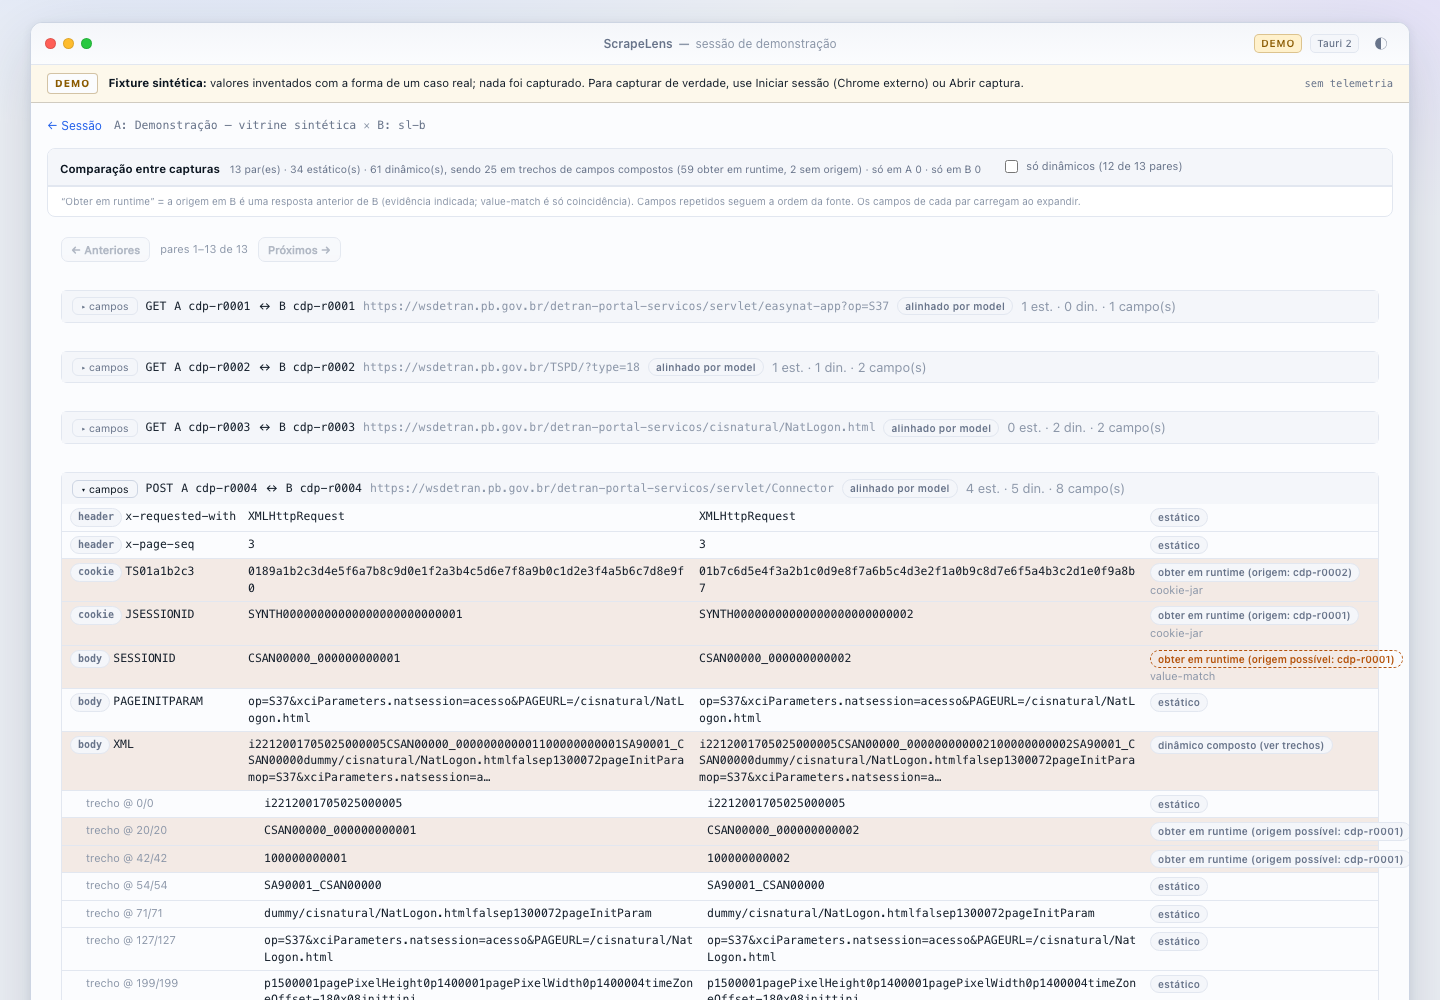
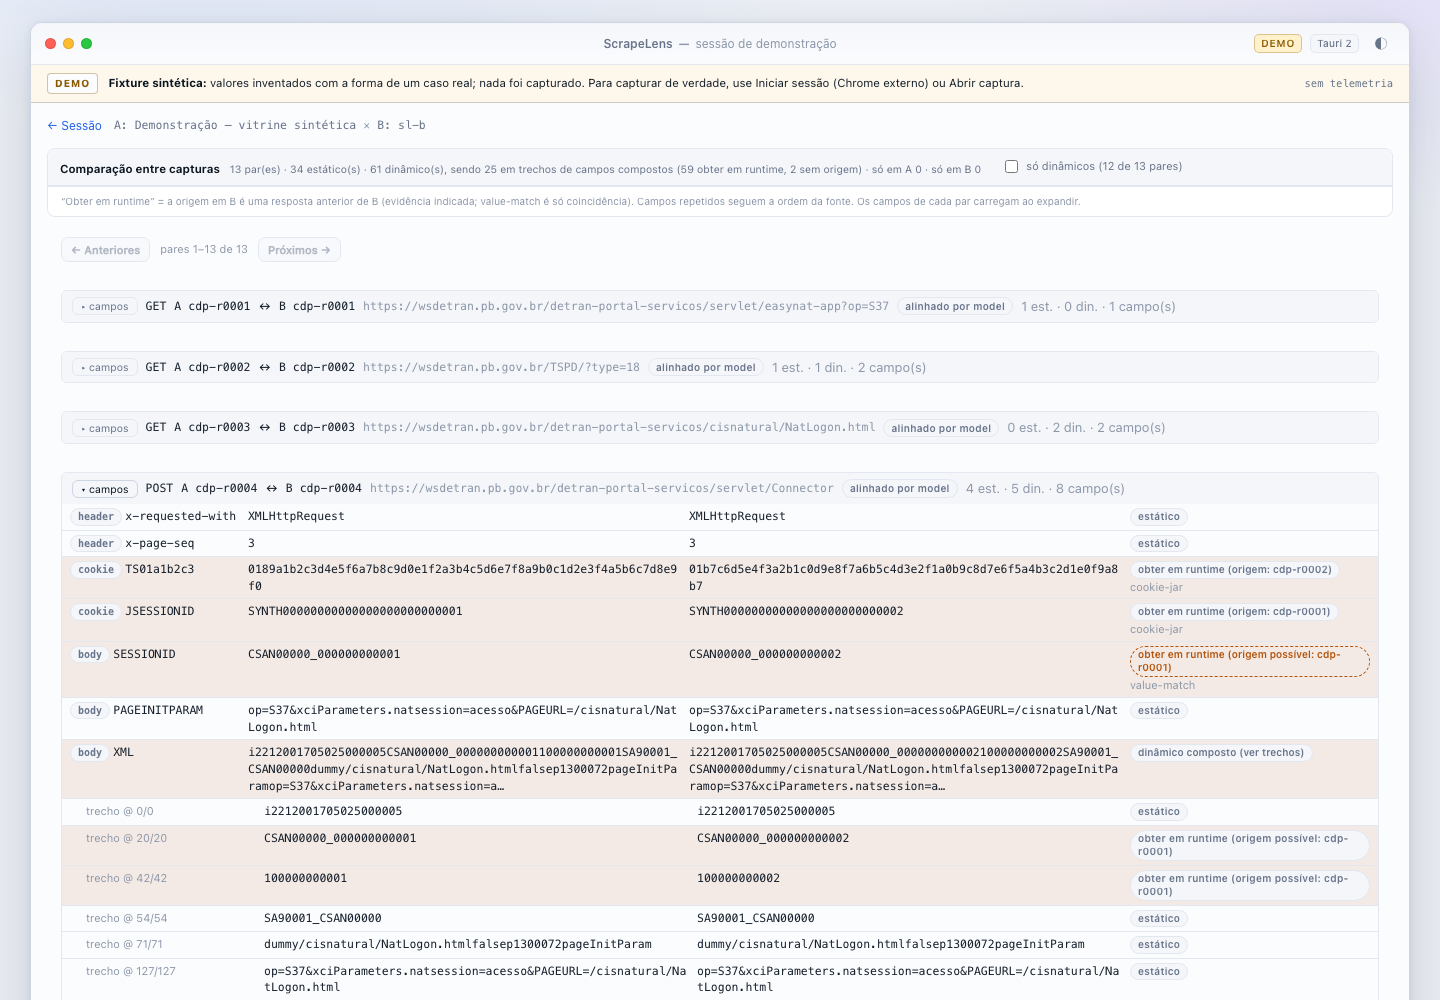
fix(app): compare chips wrap lines and add optional reordering hint

Changed region(s): [[0.0312, 0.496, 0.9688, 1.0]]

diff --git a/app/src/styles.css b/app/src/styles.css
@@ -1328,7 +1328,7 @@ kbd {
 .chain-list li { border: 1px solid var(--border); border-radius: 6px; padding: 7px 10px; margin: 6px 0; font-size: 11px; }
 .chain-list .why { color: var(--fg-muted); margin-top: 3px; overflow-wrap: anywhere; }
 .chain-protection { border-style: dashed; }
-.cmp-field { display: grid; grid-template-columns: 170px 1fr 1fr 220px; gap: 8px; padding: 4px 8px; border-bottom: 1px solid var(--border); font-size: 11px; }
+.cmp-field { display: grid; grid-template-columns: minmax(110px, 170px) minmax(0, 1fr) minmax(0, 1fr) minmax(150px, 240px); gap: 8px; padding: 4px 8px; border-bottom: 1px solid var(--border); font-size: 11px; }
 .cmp-field .mono { overflow-wrap: anywhere; }
 .cmp-dynamic { background: color-mix(in srgb, var(--warn) 10%, transparent); }
 .cmp-pair { border: 1px solid var(--border); border-radius: 6px; margin: 8px 14px; }
@@ -1336,3 +1336,7 @@ kbd {
 .cmp-pager { display: flex; gap: 10px; align-items: center; margin: 8px 14px; font-size: 11px; }
 .chip.possible { border: 1px dashed var(--warn); background: transparent; color: var(--warn); }
 .chip.strong { border: 1px solid var(--ok, #16a34a); }
+.cmp-field > div { min-width: 0; }
+.cmp-field .chip { white-space: normal; overflow-wrap: anywhere; max-width: 100%; height: auto; line-height: 1.35; display: inline-block; }
+.cmp-pair { overflow: hidden; }
+.cmp-pair > header { min-width: 0; overflow-wrap: anywhere; }

diff --git a/app/src/CaptureCompare.tsx b/app/src/CaptureCompare.tsx
@@ -24,7 +24,7 @@ function FieldRow({ field }: { field: FieldDiff }) {
         <div className="mono">{field.a ?? <span className="dim">—</span>}</div>
         <div className="mono">{field.b ?? <span className="dim">—</span>}</div>
         <div>
-          <span className={`chip ${field.originLabel?.includes("possível") ? "possible" : dynamic ? "v-partial" : "tag"}`}>{fieldClassLabel(field)}</span>
+          <span title={fieldClassLabel(field)} className={`chip ${field.originLabel?.includes("possível") ? "possible" : dynamic ? "v-partial" : "tag"}`}>{fieldClassLabel(field)}</span>
           {field.origin && (
             <div className="dim">
               {field.origin.kind}
@@ -62,6 +62,11 @@ function OnlyList({ title, items, total }: { title: string; items: RequestRef[];
         {items.map((r) => (
           <li key={r.requestId}>
             <span className="mono">{r.method}</span> <span className="mono">{r.requestId}</span> <span className="mono dim">{r.url}</span>
+            {(r.reordered || r.outOfOrder) && (
+              <span className="chip possible" title="Marca do core: requisição única reordenada entre as capturas">
+                possivelmente a mesma requisição, em outra ordem
+              </span>
+            )}
           </li>
         ))}
       </ul>

diff --git a/app/src/flow.ts b/app/src/flow.ts
@@ -95,6 +95,9 @@ export interface PrimingChain {
 }
 
 export interface RequestRef {
+  /** Marca opcional do core: requisição única reordenada (nome ainda não fixado). */
+  reordered?: boolean;
+  outOfOrder?: boolean;
   requestId: string;
   method: string;
   url: string;

diff --git a/src-tauri/EMPACOTAMENTO.md b/src-tauri/EMPACOTAMENTO.md
@@ -47,14 +47,14 @@ Ferramentas usadas: rustc 1.98.1, Node 26.8.1, macOS 26.5.2 (arm64).
 | Executável | `ScrapeLens.app/Contents/MacOS/scrapelens` |
 | Arquitetura | `Mach-O 64-bit executable arm64`, thin (sem universal binary) |
 | Tamanho do bundle | 15.368 KiB (~15,0 MiB, `du -sk`) |
-| Tamanho do executável | 14.979.744 bytes |
[1 lines of base64/hex data omitted]
+| Tamanho do executável | 14.980.704 bytes |
[1 lines of base64/hex data omitted]
 | Identificador | `app.scrapelens.desktop` |
 | Assinatura | ad-hoc (`flags=0x2(adhoc)`, `TeamIdentifier=not set`) |
 | `codesign --verify --deep --strict` | exit 0 (valid on disk, satisfaz o Designated Requirement) |
 | `spctl -a` | rejeitado — esperado: sem Developer ID e sem notarização |
 
-Rebuild com os rótulos do core (possível origem) e fixtures regeneradas; hash anterior `31ec27c3…`. Antes: rebuild das correções da revisão da rodada 5 (possível origem, confiança por passo, comparação paginada, caminhos canônicos, partsCounts; hash anterior `c1783a57…`). Antes: rebuild da onda 5b (aba Origem, cadeia de priming, comparação A × B, exportação com origens anotadas; hash anterior `2f08150d…`). Antes: rebuild do acabamento da rodada 4 (legenda de realce só quando há tracejado, nota discreta para `chrome-decoded`, aviso para `charset:*`/`lossy-postData`); hash anterior `0e2754f4…`. Antes: rebuild com busca preguiçosa do core (LazySession + search_lazy), realce sólido/tracejado e texto da fixture sintética; hash anterior `f9c0acec…`. Antes: rebuild das correções da revisão 4b (rótulos de origem, realce pelo intervalo do core, cache do bundle de busca, recusa de symlink em anexos, `transformed`; hash anterior `56ee754b…`). Antes: rebuild da onda 4b (busca no payload e painel de corpos: commands `search_session` e `read_body`, UI; 28+2 ignorados em src-tauri, 16/16 em tests/exportacao, `npm run test:adapter` ok; evidência em `evidence/busca-corpos/`). Hash anterior `9c04b98b…` substituído. Histórico: rebuild de 0d4dbab (`fix(app)`: adapter tolera campos omitidos que o core aceita via serde default; teste `npm run test:adapter` com a fixture mínima; 15+1 ignorado Tauri, 16/16 regressões tests/exportacao). Hash anterior `5934556c…` (16015a1) substituído. Antes: rebuild com validação de todos os ancestrais do destino (F1/F2): o hash acima é deste build. O SHA-256 é do executável **após** o re-sign ad-hoc. Um `tauri build` limpo
+Rebuild do ajuste de layout do compare (chips quebram linha; dica de reordenação opcional); hash anterior `ac7213b2…`. Antes: rebuild com os rótulos do core (possível origem) e fixtures regeneradas; hash anterior `31ec27c3…`. Antes: rebuild das correções da revisão da rodada 5 (possível origem, confiança por passo, comparação paginada, caminhos canônicos, partsCounts; hash anterior `c1783a57…`). Antes: rebuild da onda 5b (aba Origem, cadeia de priming, comparação A × B, exportação com origens anotadas; hash anterior `2f08150d…`). Antes: rebuild do acabamento da rodada 4 (legenda de realce só quando há tracejado, nota discreta para `chrome-decoded`, aviso para `charset:*`/`lossy-postData`); hash anterior `0e2754f4…`. Antes: rebuild com busca preguiçosa do core (LazySession + search_lazy), realce sólido/tracejado e texto da fixture sintética; hash anterior `f9c0acec…`. Antes: rebuild das correções da revisão 4b (rótulos de origem, realce pelo intervalo do core, cache do bundle de busca, recusa de symlink em anexos, `transformed`; hash anterior `56ee754b…`). Antes: rebuild da onda 4b (busca no payload e painel de corpos: commands `search_session` e `read_body`, UI; 28+2 ignorados em src-tauri, 16/16 em tests/exportacao, `npm run test:adapter` ok; evidência em `evidence/busca-corpos/`). Hash anterior `9c04b98b…` substituído. Histórico: rebuild de 0d4dbab (`fix(app)`: adapter tolera campos omitidos que o core aceita via serde default; teste `npm run test:adapter` com a fixture mínima; 15+1 ignorado Tauri, 16/16 regressões tests/exportacao). Hash anterior `5934556c…` (16015a1) substituído. Antes: rebuild com validação de todos os ancestrais do destino (F1/F2): o hash acima é deste build. O SHA-256 é do executável **após** o re-sign ad-hoc. Um `tauri build` limpo
 produz um binário byte-diferente (o linker assina antes do bundle), por isso o
 hash identifica este artefato, não a saída de qualquer build. O build anterior
 desta mesma rodada, sem o ajuste `3a3c676`, tinha
